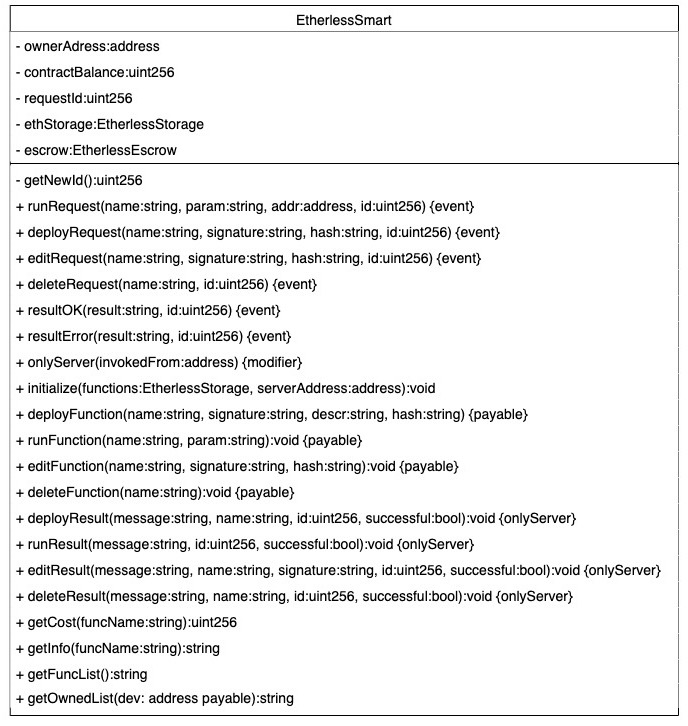
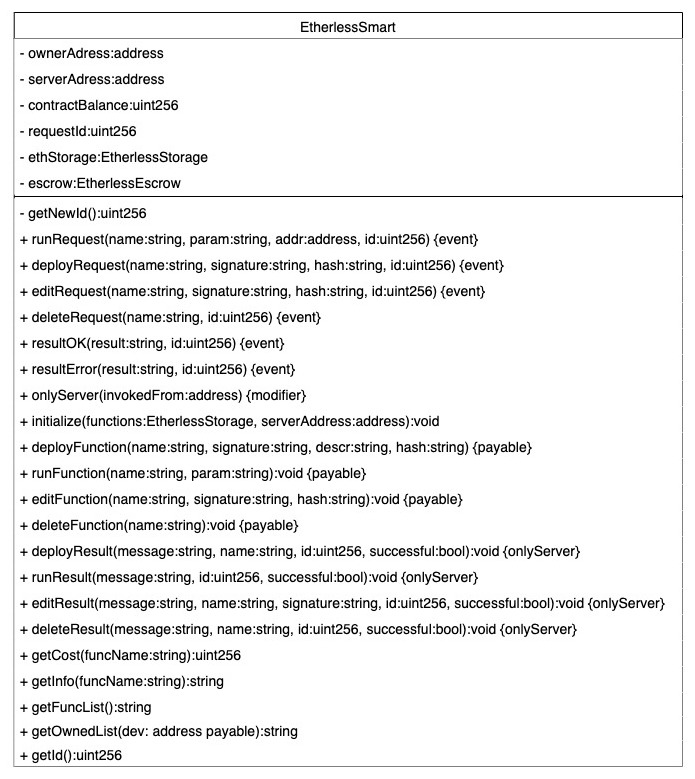
Completata sezione smart

Changed region(s): [[0.0, 0.0, 1.0, 1.0]]

diff --git a/Esterni/Developer_manual/res/sections/04-Smart.tex b/Esterni/Developer_manual/res/sections/04-Smart.tex
@@ -21,39 +21,42 @@
 
 \subsubsubsection*{Attributes}
 	\begin{itemize}
-		\item \textbf{ownerAddress:} 
-		\item \textbf{contractBalance:}
-		\item \textbf{requestId:}
-		\item \textbf{ethStorage:}
-		\item \textbf{escrow:}
+		\item \textbf{ownerAddress:} address of EtherlessSmart;
+		\item \textbf{serverAddress:} server address;
+		\item \textbf{contractBalance:} amount of ETH stored in the smart contract;
+		\item \textbf{requestId:} unique identifier used to mark each transaction;
+		\item \textbf{ethStorage:} instance of EtherlessStorage contract;
+		\item \textbf{escrow:} instance of EtherlessEscrow contract;
 	\end{itemize}
 \subsubsubsection*{Modifiers}
 	\begin{itemize}
-		\item \textbf{onlyServer}
+		\item \textbf{onlyServer:} restricts the access only to the server address;
 	\end{itemize}
 \subsubsubsection*{Events}
 	\begin{itemize}
-		\item \textbf{runRequest}
-		\item \textbf{deployRequest}
-		\item \textbf{editRequest}
-		\item \textbf{deleteRequest}
-		\item \textbf{resultOK}
-		\item \textbf{resultError}
+		\item \textbf{runRequest:} event emitted when a request of execution of a function is received;
+		\item \textbf{deployRequest:} event emitted when a request of deployment of a function is received;
+		\item \textbf{editRequest:} event emitted when a request of modification of a function is received;
+		\item \textbf{deleteRequest:} event emitted when a request of deletion of a function is received;
+		\item \textbf{resultOK:} event emitted when the result of a certain execution has to be communicated;
+		\item \textbf{resultError:} event emitted when the failure of a certain execution has to be communicated;
 	\end{itemize}
 \subsubsubsection*{Methods}
 	\begin{itemize}
-		\item \textbf{deployFunction:}
-		\item \textbf{runFunction:}
-		\item \textbf{editFunction:}
-		\item \textbf{deleteFunction:}
-		\item \textbf{deployResult:}
-		\item \textbf{runResult:}
-		\item \textbf{editResult:}
-		\item \textbf{deleteResult:}
-		\item \textbf{getCost:}
-		\item \textbf{getInfo:}
-		\item \textbf{getFuncList:}
-		\item \textbf{getNewId:}
+		\item \textbf{deployFunction:} requests that a certain function be deployed;
+		\item \textbf{runFunction:} requests the execution of a certain function;
+		\item \textbf{editFunction:} requests that a certain function be modified;
+		\item \textbf{deleteFunction:} requests the deletion of a certain function. Can only be invoked by the developer of said function;
+		\item \textbf{deployResult:} communicates the result of a function deployment; can only be called by the server address;
+		\item \textbf{runResult:} communicates the result of a function execution; can only be called by the server address;
+		\item \textbf{editResult:} communicates the result of a function modification; can only be called by the server address;
+		\item \textbf{deleteResult:} communicates the result of a function deletion; can only be called by the server address;
+		\item \textbf{getCost:} returns the cost of a function;
+		\item \textbf{getInfo:} returns all the information regarding a certain function;
+		\item \textbf{getFuncList:} returns the names of all functions that have been deployed;
+		\item \textbf{getOwnedList:} returns the names of all functions that have been deployed by a certain developer;
+		\item \textbf{getNewId:} returns \texttt{requestId} incremented by one;
+		\item \textbf{getId:} returns \texttt{requestId};
 	\end{itemize}
 		
 \subsubsection{EtherlessStorage}
@@ -113,3 +116,7 @@
 	\end{figure}
 		
 \subsection{Extensions}  %Possibili sviluppi futuri
+As described above, smart contracts have been developed with the aim of being upgradable, meaning all the contracts can be updated without losing stored data. \\
+To do this, we have decided to use the framework \textit{OpenZeppelin} because of its implementation of the proxy delegate pattern to upgrade contracts under the hood. \\
+As far as the developer side of things this makes the upgrade of a smart contract very simple. In order to upgrade a contract all the new features desired can be added without changing the order of the elements that are already there. Then by typing \texttt{npx oz upgrade} in the terminal window the smart contract will be upgraded. \\
+For more information, the official documentation can be consulted here: \url{https://docs.openzeppelin.com/upgrades/2.6/}.
